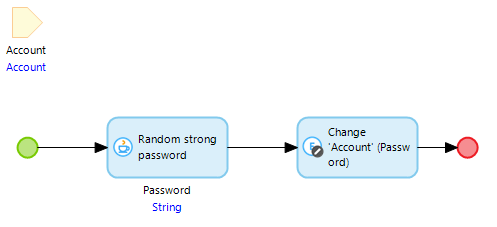
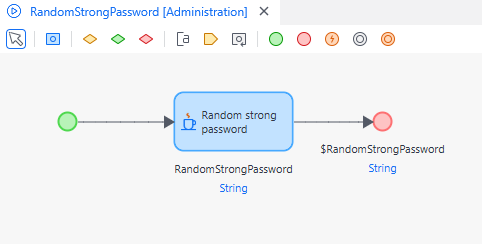
create temporary account

diff --git a/additional/01-howtos/03-design-tests/test-without-local-account.md b/additional/01-howtos/03-design-tests/test-without-local-account.md
@@ -36,14 +36,14 @@ Each Test Case uses MxAdmin as the Execution User, and has the Apply Security se
 Every Test Case in this Test Suite contains these teststeps:
 1. [Retrieve](../../../Teststep/retrieve) UserRole (1 or more teststep) to determine the Roles for the Account
 2. [Create](../../../Teststep/create) Account, filling the Name attribute and UserRoles association
-3. Determine password (there are several options, read about this below)
-5. [Persist](../../../Teststep/persist)
+3. Set the password (read below)
+4. [Persist](../../../Teststep/persist)
 
-The password can be created design-time in teststep 2 by using [MTA's random function on the teststep](../../../Teststep/create#generate-random-values). However the downside is that the password is known beforehand, and can theoretically be used to login during execution of the test. A better way is to have the password be created by a microflow at runtime, using the Random Strong Password Java action from the Community Commons module. Such a microflow would look like this:
+There are two ways to set the password:
+- Insert a password string in Step 2 (in the Create teststep). You will however not be able to login with this password due to Mendix security restrictions.
+- Use a microflow to generate a random password so you can use it to login a [UI test](test-ui-with-mta), during the execution of the test.
 
-![Random password](../images/random_password.png)
-
-In this example, the password is not returned as an output parameter and therefore cannot be read in MTA.
+![RandomStrongPassword microflow](../images/random_password.png)
 
 ### Run tests
 
@@ -56,7 +56,7 @@ If any objects are associated to the Account entity, make sure to delete these o
 The last Test Suite contains one Test Case that delete the Account(s) that were created in the first Test Suite. It uses MxAdmin as the Execution User, and has the Apply Security setting to "No".
 
 Assuming there are no other Accounts in the database (note that MxAdmin is a *User*, not an *Account*) the simplest way is to:
-1. [Retrieve](../../../Teststep/retrieve) All Account object(s)
+1. [Retrieve](../../../Teststep/retrieve) the created Account object(s)
 2. [Delete](../../../Teststep/delete) the objects from teststep 1
 5. [Persist](../../../Teststep/persist)
 
